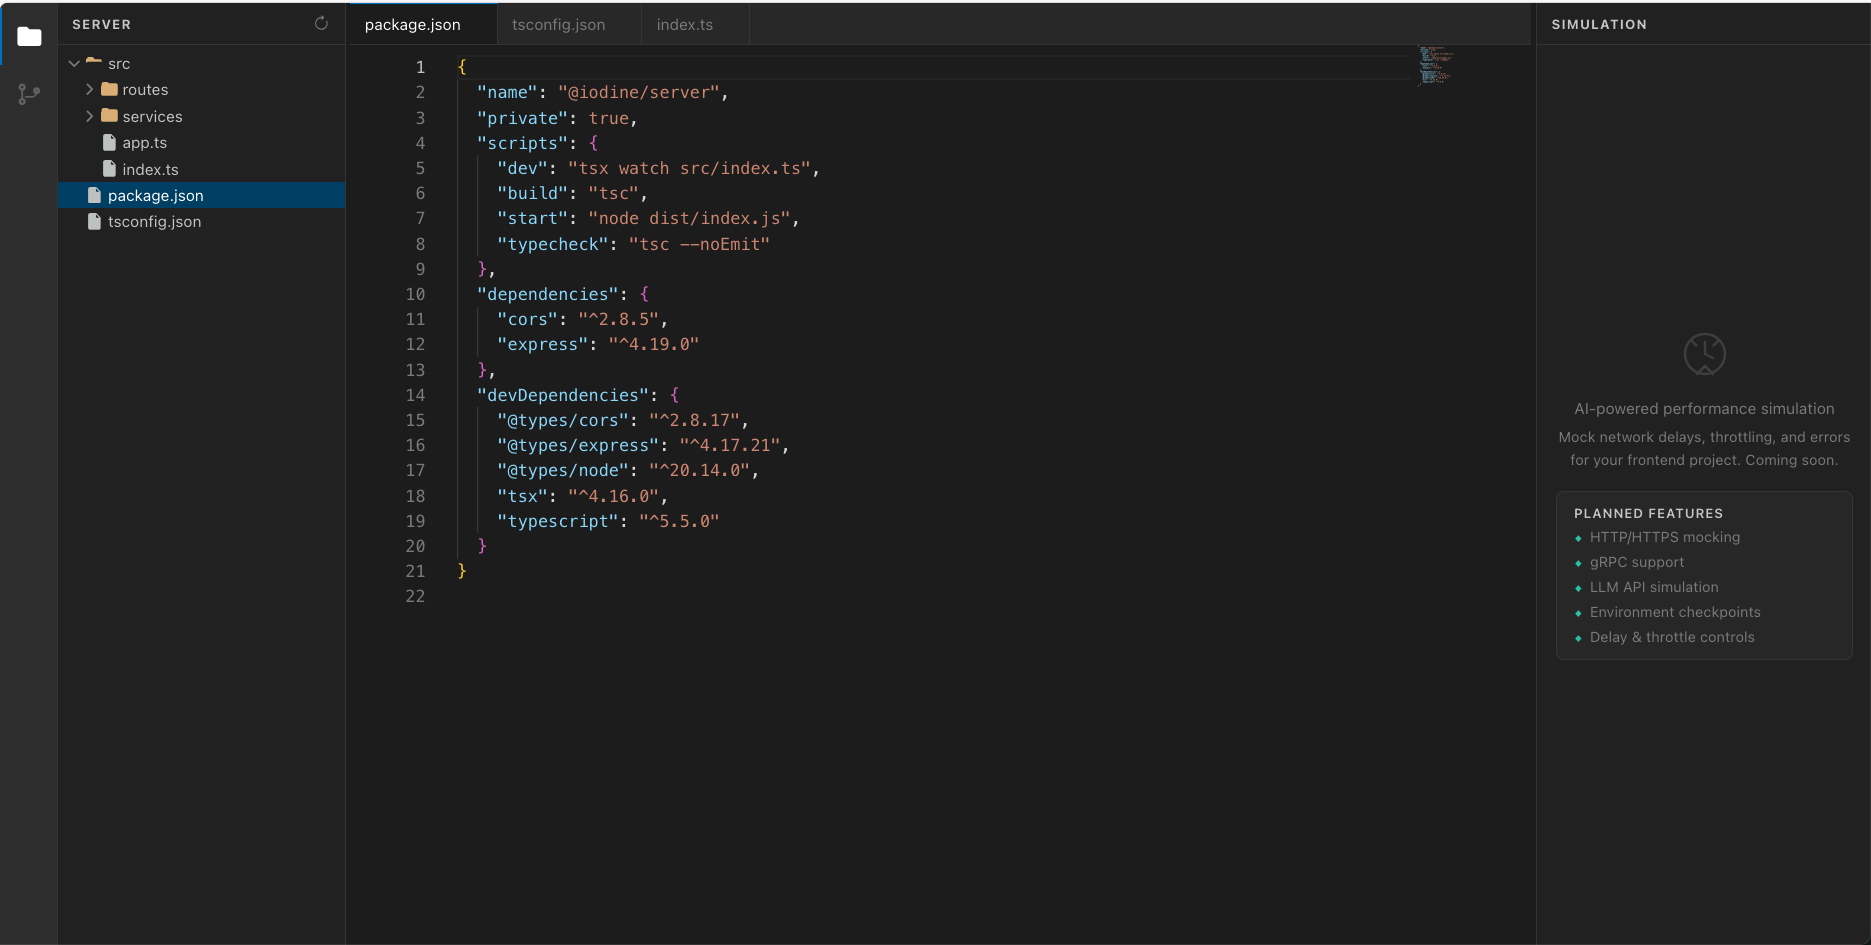
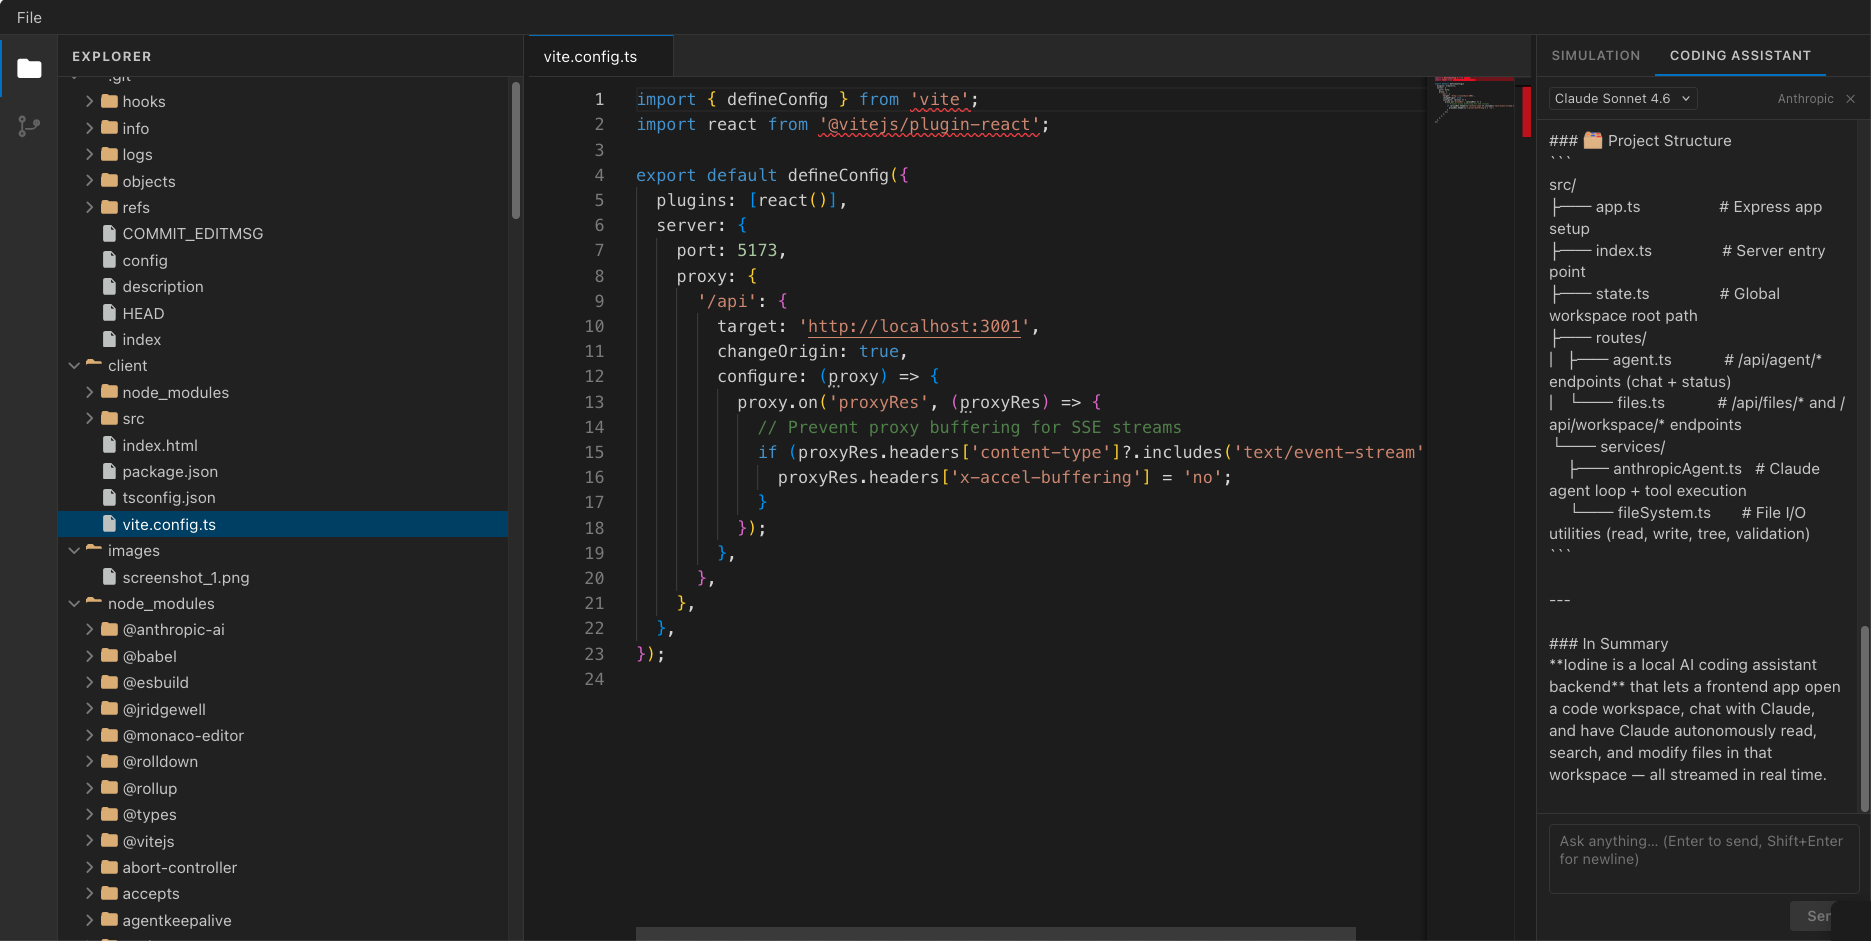
docs: update README with screenshot

diff --git a/README.md b/README.md
@@ -4,6 +4,10 @@
 
 AI-powered performance simulation tool for frontend development.
 
+## Screenshots
+
+![Iodine IDE](images/screenshot_1.png)
+
 ## Use Cases
 
 * User experience study
@@ -25,4 +29,3 @@ AI-powered performance simulation tool for frontend development.
 * HTTP/HTTPS
 * gRPC
 * LLM APIs
-